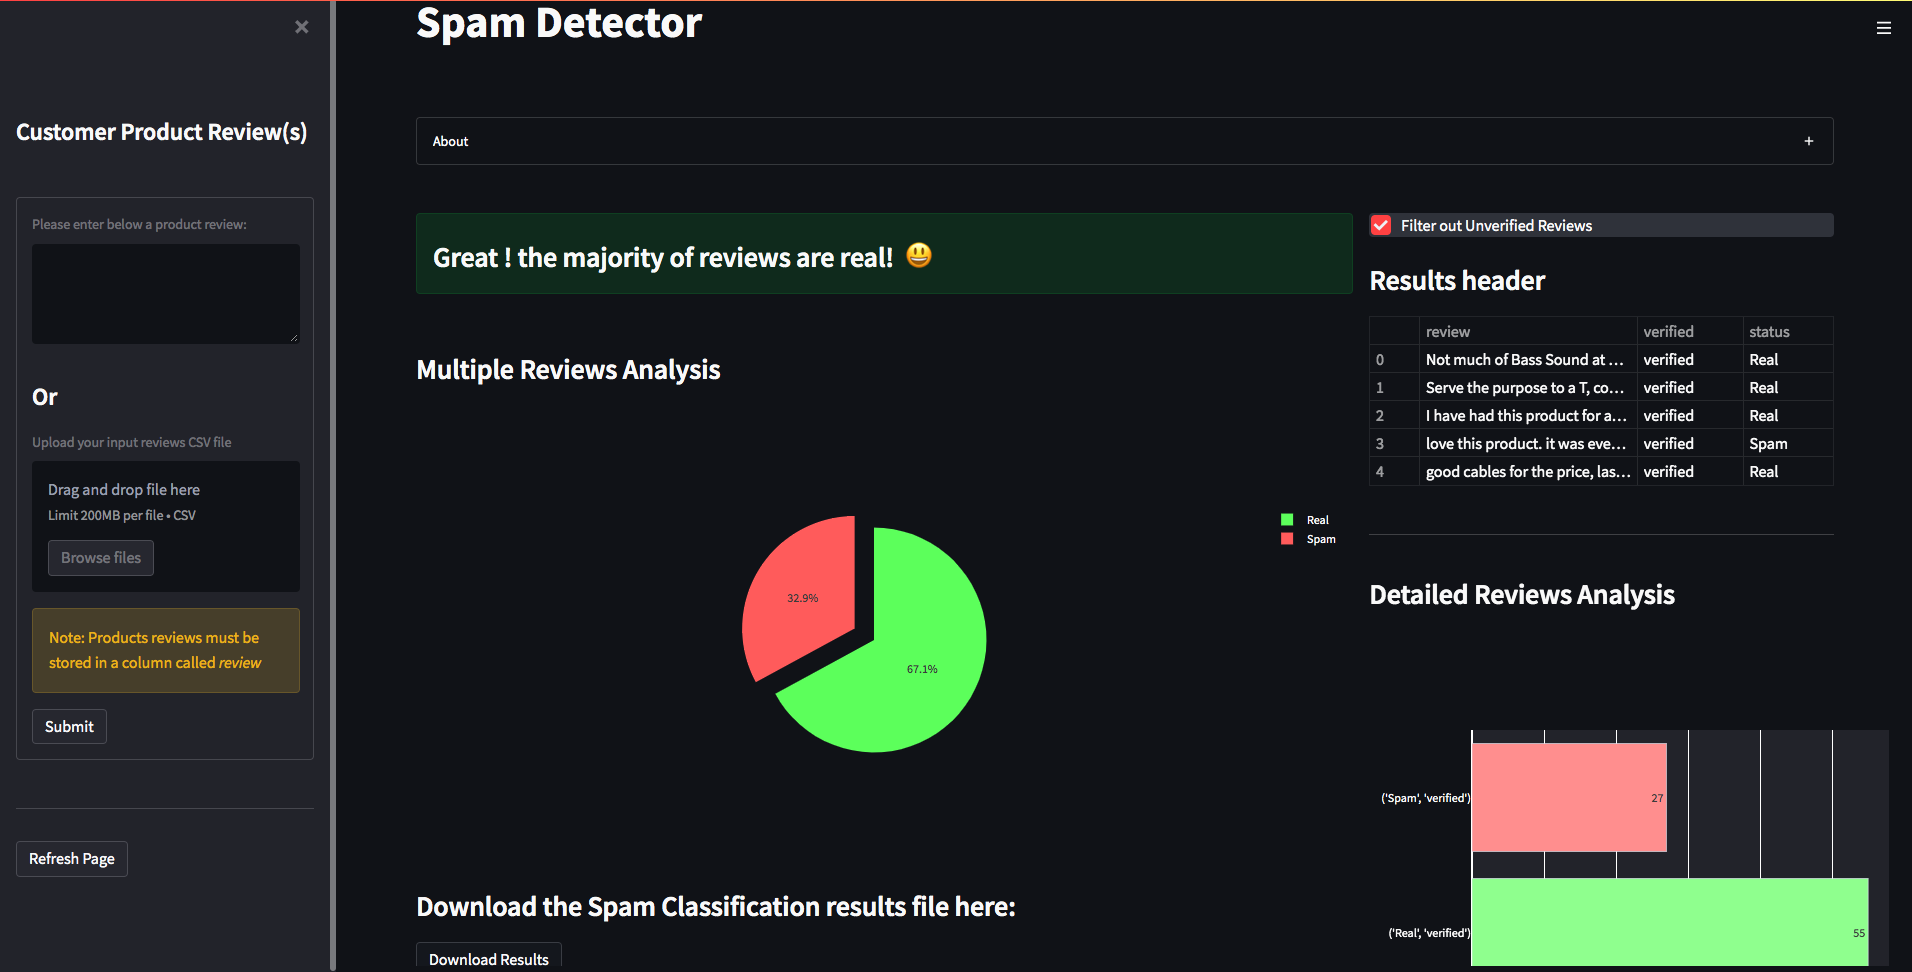
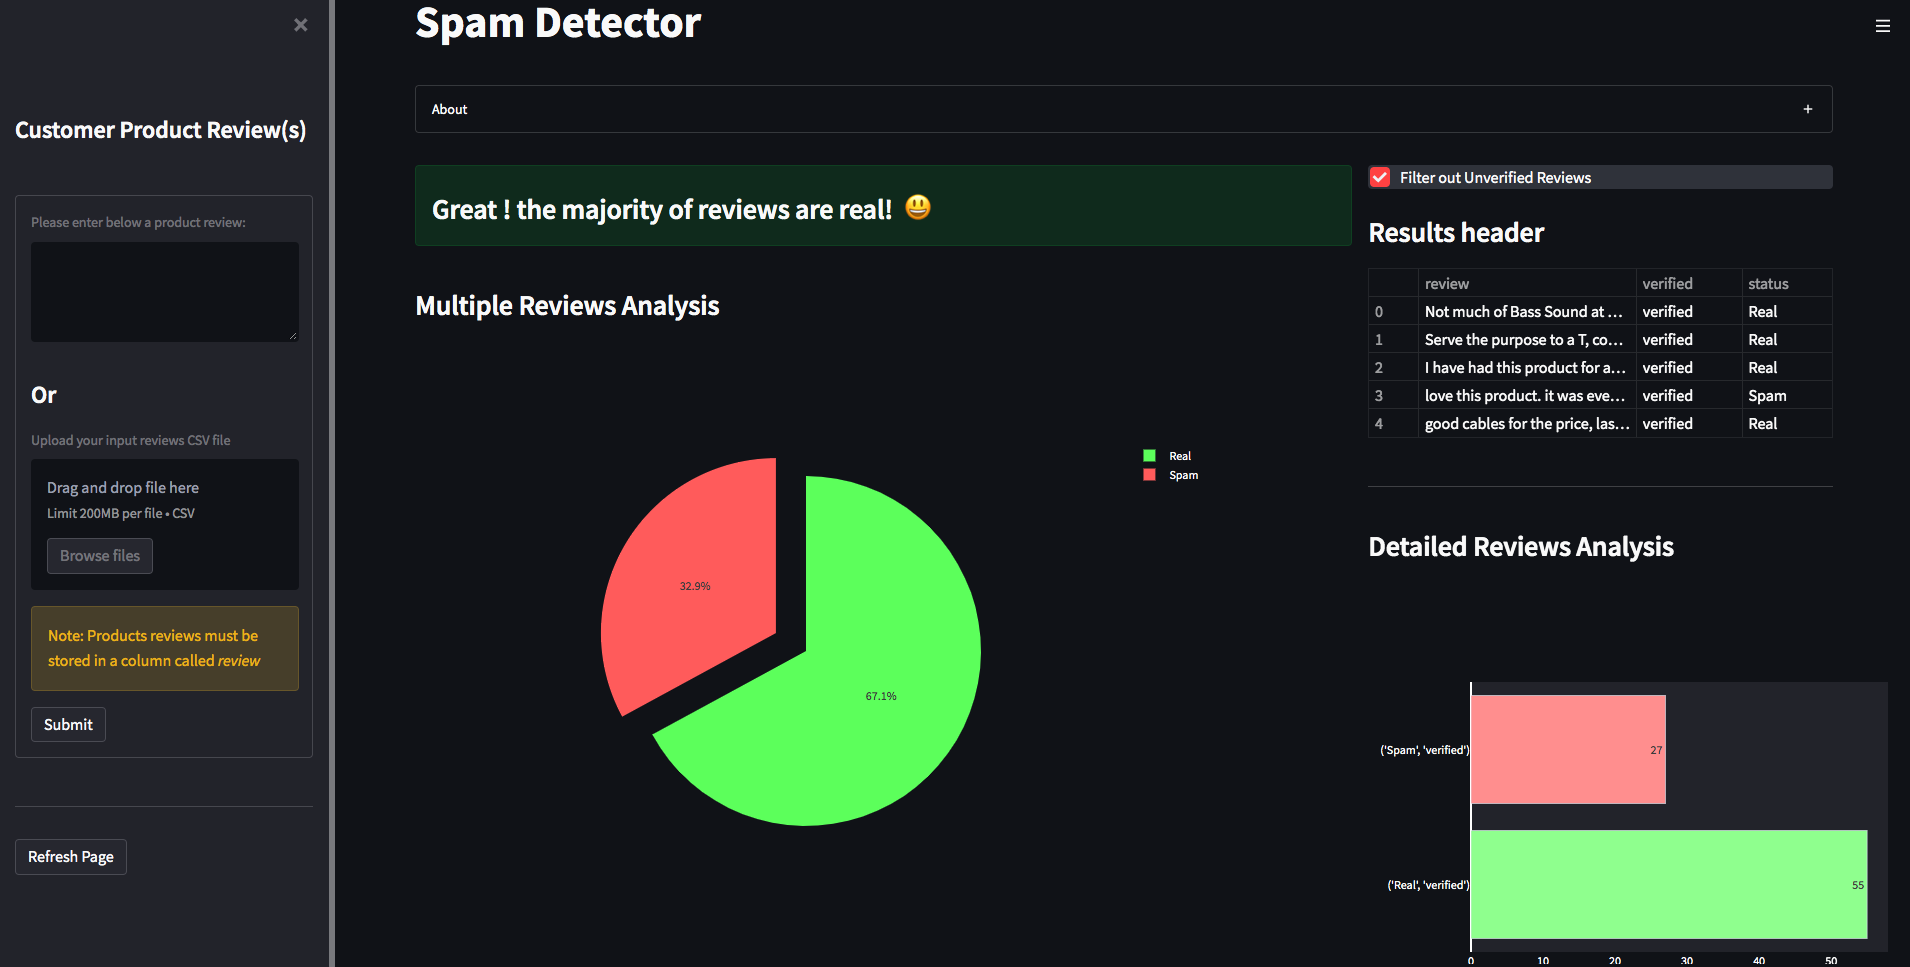
Prettifying the UI

diff --git a/scripts/functions.py b/scripts/functions.py
@@ -31,6 +31,8 @@ def get_results(dataset, url):
 def display_updated_layout(dataset, count_results, colors, c2, c3, fig):
     fig.update_layout(
         overwrite = True,
+        width = 800,
+        height= 600
     )
 
     result = dict(dataset['status'].value_counts(sort=True))
@@ -48,9 +50,8 @@ def display_updated_layout(dataset, count_results, colors, c2, c3, fig):
     fig.add_trace(go.Pie(labels=x, values=y, pull=[0, 0.2], 
     marker_colors=['rgb(102, 255, 102)', 'rgb(255, 102, 102)']))
     c2.text("")
-    c2.text("")
     c2.subheader("Multiple Reviews Analysis")
-    c2.plotly_chart(fig, use_container_width=True)
+    c2.plotly_chart(fig)
     c2.subheader("Download the Spam Classification results file here:")
     
     csv = convert_df(dataset)
@@ -71,6 +72,8 @@ def display_updated_layout(dataset, count_results, colors, c2, c3, fig):
     fig2.update_layout(
         overwrite = True,
         width = 600,
+        xaxis=dict(showgrid=False),
+        yaxis=dict(showgrid=False)
     )
     fig2.add_trace(go.Bar(
         x=list(dict(count_results).values()),

diff --git a/scripts/spam_classifier.py b/scripts/spam_classifier.py
@@ -33,8 +33,6 @@ def test_url_availability(url):
 fig = go.Figure()
 st.title("Spam Detector")
 st.text("")
-st.text("")
-st.text("")
 #---------------------------------#
 # About
 expander_bar = st.expander("About")
@@ -47,7 +45,6 @@ expander_bar.markdown("""
 
 st.set_option('deprecation.showfileUploaderEncoding', False)
 
-st.text("")
 st.text("")
 
 col2, col3 = st.columns((2,1))

diff --git a/README.md b/README.md
@@ -19,7 +19,7 @@ This [**Spam Detector**](https://spamclassifier11.herokuapp.com/) application ex
   - #### Data Collection
   I used a dataset of Amazon electronic products reviews with spam and non-spam labels from Kaggle Datasets, labeled and shared by [(Hussain et al., 2020)](https://ieeexplore.ieee.org/document/9027828)
   - #### Data Pre-processing
-  I firstly reduced the dataset to 50,000 balanced reviews, and used **WordCloud** to compare the most frequent words in each category. <br />Then, I, realized that words like `great` and `good` are more frequent in spam reviews compared to non-spam ones. <br />
+  Firstly, I reduced the dataset to 50,000 balanced reviews, and used **WordCloud** to compare the most frequent words in each category. <br />Then, I, realized that words like `great` and `good` are more frequent in spam reviews compared to non-spam ones. <br />
   Thereafter, using the `NLTK` package, I normalized each review by removing non-alphabetic words/characters, english stop-words, and lemmatization.
   - #### Feature Extraction
   I tokenized each review, and used the `Word2vec` model to get embeddings, as well as the `TfidfVectorizer`.
@@ -37,8 +37,8 @@ This [**Spam Detector**](https://spamclassifier11.herokuapp.com/) application ex
        The accuracy score of the the Logistic Regression model was `84.15%`, with `84%` accuracy for both precision, and recall.<br />
        **Confusion Matrix** <br />
       ![Confusion Matrix](./data/plots/cm_LR.png "C.M.")
-    - Finally, I fit a Random Forest Classifier, resulting in a `81.54%` accuracy score, with a lot more more False Negatives compared to the previous models
-> **_NOTE:_** Lastly, I exported the model with the best performance(the **LSTM** model), and deployed it with a Django API that I developed [here]().
+    - Finally, I fitted a Random Forest Classifier, resulting in a `81.54%` accuracy score, with a lot more more False Negatives compared to the previous models
+> **_NOTE:_** I exported the model with the best performance(the **LSTM** model), and deployed it with a Django API that I developed [here]().
 - ### Application Development and Model Deployment
   - #### Front End
     - I used the [streamlit](https://streamlit.io/) framework for its simplicity in developing data apps.
